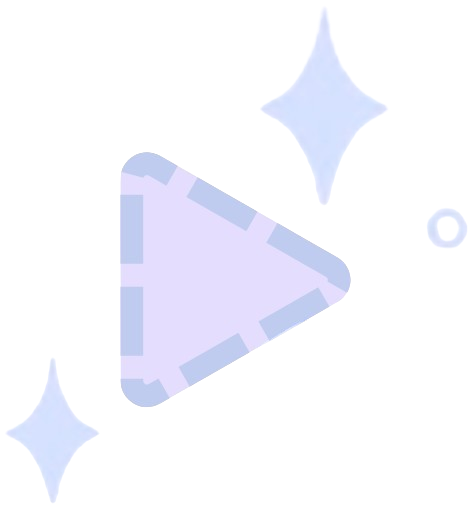
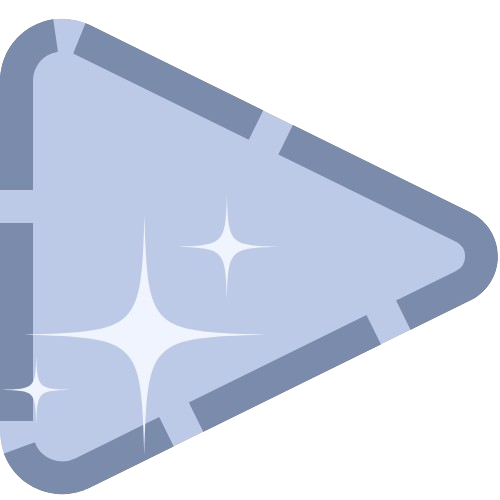
styling changes

diff --git a/style.css b/style.css
@@ -2,17 +2,22 @@
 body, html {
     margin: 0;
     padding: 0;
-    font-family: 'Baloo 2', cursive;
+    font-family: 'Fredoka', cursive;
     height: 100%;
-    background: #c9d6f0;
+    background: #dae6ff;
     overflow: hidden;
     background-image: url('assets/background_img.jpg');
-    background-size: center;
+    background-size: cover;
     background-position: center;
     background-repeat: no-repeat;
 }
 
-/* blurred background img */
+body.embedded {
+    background: transparent;
+    background-image: none;
+}
+
+/* blurred background */
 .background {
     position: fixed;
     top: 0;
@@ -26,9 +31,14 @@ body, html {
     z-index: -2;
 }
 
-/* centered content container */
+body.embedded .background {
+    display: none;
+}
+
+/* responsive widget */
 .widget {
-    max-width: 400px;
+    width: 90%;
+    max-width: 500px; /* larger on site, scales down */
     margin: auto;
     padding: 20px;
     border-radius: 24px;
@@ -38,15 +48,19 @@ body, html {
     align-items: center;
 }
 
+body.embedded .widget {
+    max-width: 350px;
+    padding: 10px;
+}
+
 /* gif container w rounded corners */
 .gif-container {
-    position: relative;
     width: 100%;
     border-radius: 24px;
     overflow: hidden;
+    position: relative;
 }
 
-/* responsive gif */
 .comfy-gif {
     width: 100%;
     height: auto;
@@ -61,62 +75,59 @@ body, html {
     top: 10%;
     left: 10%;
     color: rgb(243, 249, 255);
-    text-shadow: 1px 1px 5px rgb(34, 37, 55);
+    text-shadow: 1px 1px 5px rgb(107, 106, 160);
     font-size: 2rem;
 }
 
-/* add spacing between date/time */
 .datetime #date,
 .datetime #time {
-    margin: 4px 0;
+    margin: 2px 0;
 }
 
-/* player below the gif */
+/* player section */
 .player {
     background-color: rgb(243, 249, 255);
     border-radius: 24px;
     width: 100%;
-    padding: 30px 4px;
-    margin-top: 30px;
+    padding: 24px 2px;
+    margin-top: 20px;
     box-shadow: 0 2px 8px rgba(35, 55, 77, 0.15);
     display: flex;
     flex-direction: column;
     align-items: center;
-    gap: 12px;
+    gap: 10px;
+}
+
+body.embedded .player {
+    background-color: transparent;
+    box-shadow: none;
+}
+
+/* progress bar */
+#progress-bar {
+    height: 6px;
+    width: 80%;
+    margin: 8px 0;
+}
+
+#volume {
+    width: 40%;
+    height: 4px;
+    margin: 8px 0;
 }
 
 .player input[type="range"] {
     -webkit-appearance: none;
     appearance: none;
-    width: 80%;
-    height: 6px;
     background: #bfccf0;
     border-radius: 5px;
-    outline: none;
     cursor: pointer;
-} 
-
-#progress-bar,
-#volume {
-    margin: 8px 0;
-}
-
-#progress-bar {
-    height: 6px;
-    width: 80%;
-}
-
-#volume {
-    margin-top: 8px;
-    margin-bottom: 10px;
-    width: 40%;
-    height: 4px;
 }
 
 .player input[type="range"]::-webkit-slider-thumb {
     -webkit-appearance: none;
-    height: 80px;
-    width: 80px;
+    height: 64px;
+    width: 64px;
     background: url('icons/dot.png') no-repeat center;
     background-size: contain;
     border: none;
@@ -124,8 +135,8 @@ body, html {
 }
 
 .player input[type="range"]::-moz-range-thumb {
-    height: 80px;
-    width: 80px;
+    height: 64px;
+    width: 64px;
     background: url('icons/dot.png') no-repeat center;
     background-size: contain;
     border: none;
@@ -137,8 +148,9 @@ body, html {
     display: flex;
     align-items: center;
     justify-content: center;
-    gap: 60px;
+    gap: 80px;
     margin-bottom: 10px;
+    position: relative;
 }
 
 .controls button {
@@ -146,15 +158,14 @@ body, html {
     border: none;
     padding: 0;
     cursor: pointer;
+    display: flex;
+    align-items: center;
+    justify-content: center;
 }
 
-.controls button img {
-    display: block;
-}
-
+/* icon sizes */
 .controls img {
-    width: 30px;
-    height: 30px;
+    width: 28px;
     opacity: 0.7;
     transition: opacity 0.3s ease;
 }
@@ -164,71 +175,70 @@ body, html {
 }
 
 #play img {
-    width: 110px;
-    height: 110px;
-}
-
-#pause img {
-    width: 200px; 
-    height: 130px; 
+    width: 53px;
 }
 
 #prev img,
 #next img {
-    width: 32px;
-    height: 32px;
+    width: 35px;
 }
 
-#youtube-player {
-    display: none;
+/* sparkles */
+.play-wrapper {
+    position: relative;
+    width: 80px;  
+    height: 80px;
+    display: flex;
+    align-items: center;
+    justify-content: center;
 }
 
-.player input[type="range"]:focus {
-    outline: 2px solid #bfccf0;
+
+#play {
+    background: none;
+    border: none;
+    padding: 0;
+    width: 80px;
+    height: 80px;
+    display: flex;
+    align-items: center;
+    justify-content: center;
+    cursor: pointer;
+    z-index: 2;
 }
 
+#play-icon {
+    width: 100%;
+    height: auto;
+}
+
+.sparkle {
+    position: absolute;
+    width: 20px;
+    height: 20px;
+    pointer-events: none;
+    z-index: 1;
+}
+
+.sparkle-top-right {
+    top: 8px;
+    right: -20px;
+}
+
+.sparkle-bottom-left {
+    bottom: 1px;
+    left: -30px;
+}
+
+
+
+/* focus outlines for accessibility */
+.player input[type="range"]:focus,
 .controls button:focus {
     outline: 2px dashed #bfccf0;
 }
 
-/* ========= embedded widget styles ========= */
-body.embedded .widget {
-    max-width: 260px;
-    padding: 12px;
-    box-shadow: none;
-}
-
-body.embedded .comfy-gif {
-    border-radius: 16px;
-}
-
-body.embedded .datetime {
-    font-size: 1.2rem;
-    top: 8%;
-    left: 8%;
-}
-
-body.embedded .player {
-    padding: 16px 4px;
-    gap: 8px;
-}
-
-body.embedded #play img {
-    width: 60px;
-    height: 60px;
-}
-
-body.embedded #prev img,
-body.embedded #next img {
-    width: 24px;
-    height: 24px;
-}
-
-body.embedded input[type="range"] {
-    width: 70% !important;
-}
-
-body.embedded #volume {
-    width: 35%;
-    height: 3px;
+/* YouTube iframe hidden */
+#youtube-player {
+    display: none;
 }

diff --git a/index.html b/index.html
@@ -6,8 +6,8 @@
         <title>muwusic</title>
 
         <!-- fonts -->
-        <link href="https://fonts.googleapis.com/css2?family=Baloo+2:wght@400;700&display=swap" rel="stylesheet">
-
+        <link href="https://fonts.googleapis.com/css2?family=Fredoka:wght@400;600&display=swap" rel="stylesheet">
+        
         <!-- styles -->
         <link rel="stylesheet" href="style.css" />
     </head>
@@ -37,15 +37,26 @@
 
                 <!-- controls -->
                 <div class="controls">
-                    <button id="prev"><img src="icons/prev.png" alt="prev" /></button>
-                    <button id="play"><img src="icons/play.png" alt="play" /></button>
-                    <button id="next"><img src="icons/skip.png" alt="next" /></button>         
+                        <button id="prev">
+                            <img src="icons/prev.png" alt="prev" />
+                    </button>
+
+                    <div class="play-wrapper">
+                        <button id="play">
+                            <img src="icons/play.png" alt="play" id="play-icon" />
+                        </button>
+                        <img src="icons/sparkle.png" alt="sparkle" class="sparkle sparkle-top-right" />
+                        <img src="icons/sparkle.png" alt="sparkle" class="sparkle sparkle-bottom-left" />
+                    </div>
+
+                    <button id="next">
+                        <img src="icons/skip.png" alt="next" />
+                    </button>
                 </div>
 
-                <!-- volume controls -->
+                <!-- volume slider -->
                 <input type="range" id="volume" min="0" max="100" value="50" />
             </div>
-        </div>
 
         <!-- hidden youtube iframe -->
         <div id="youtube-player"></div>
